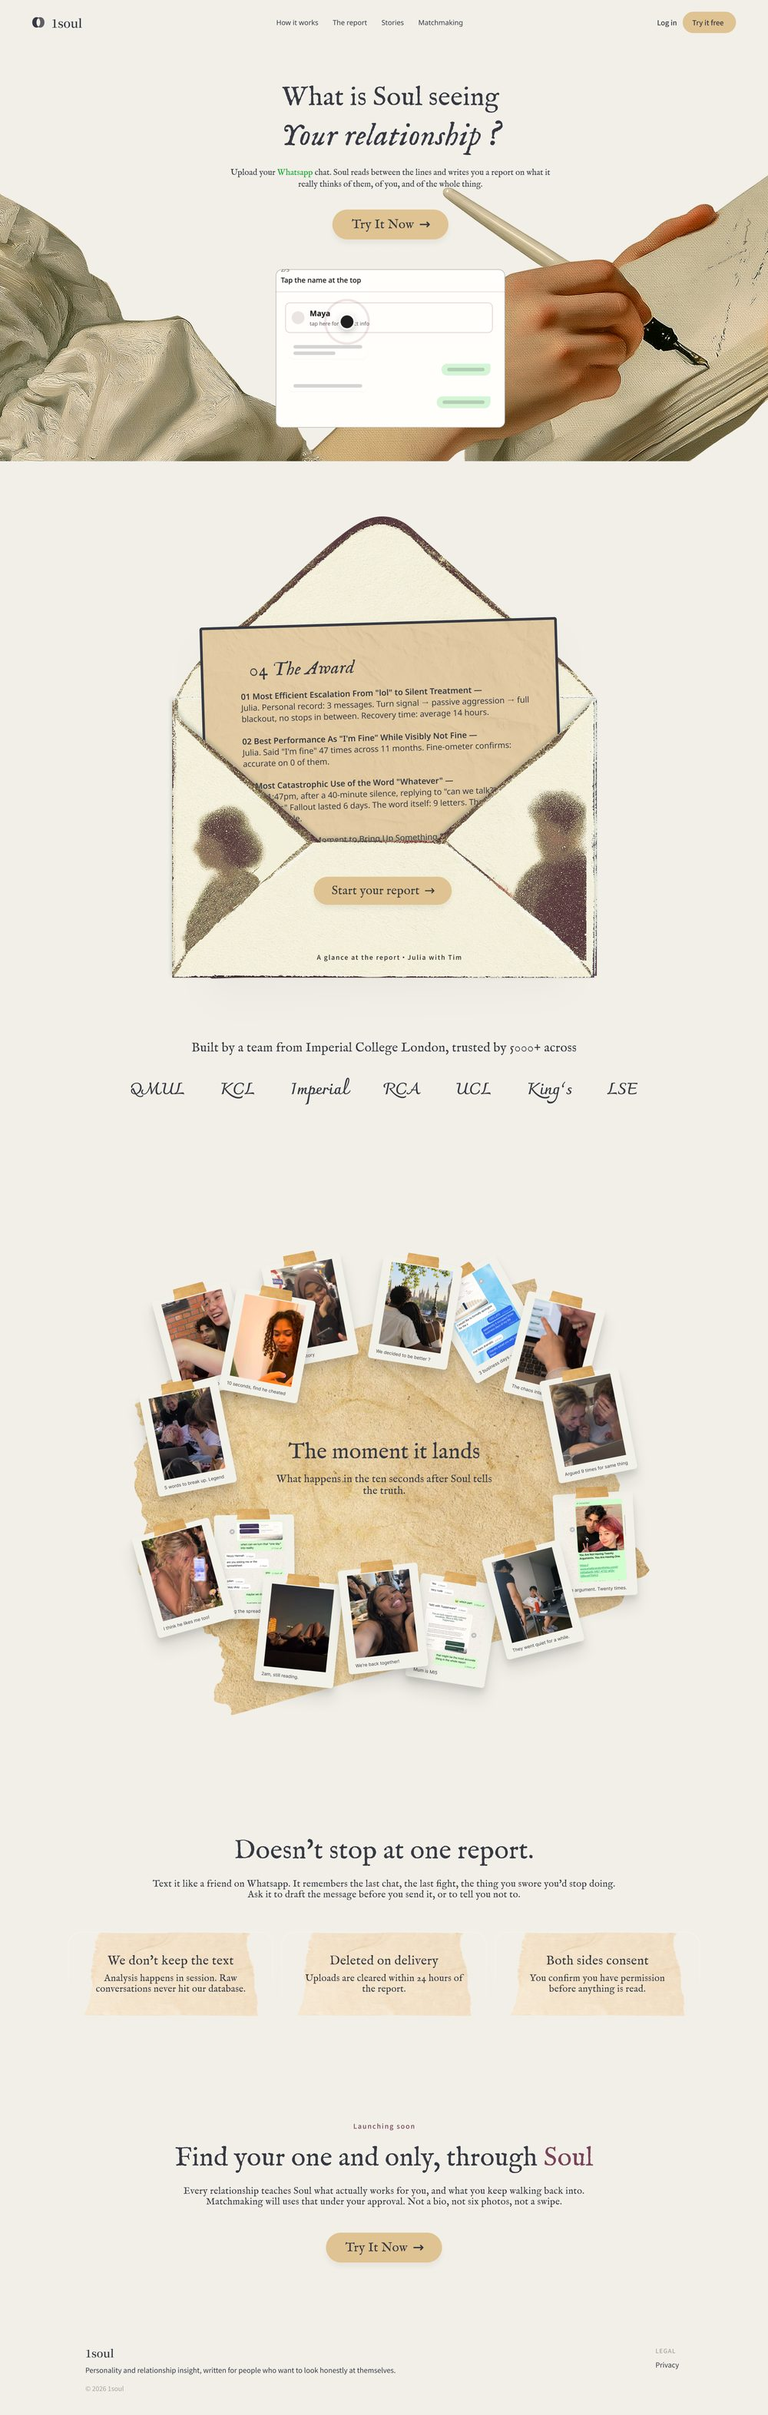
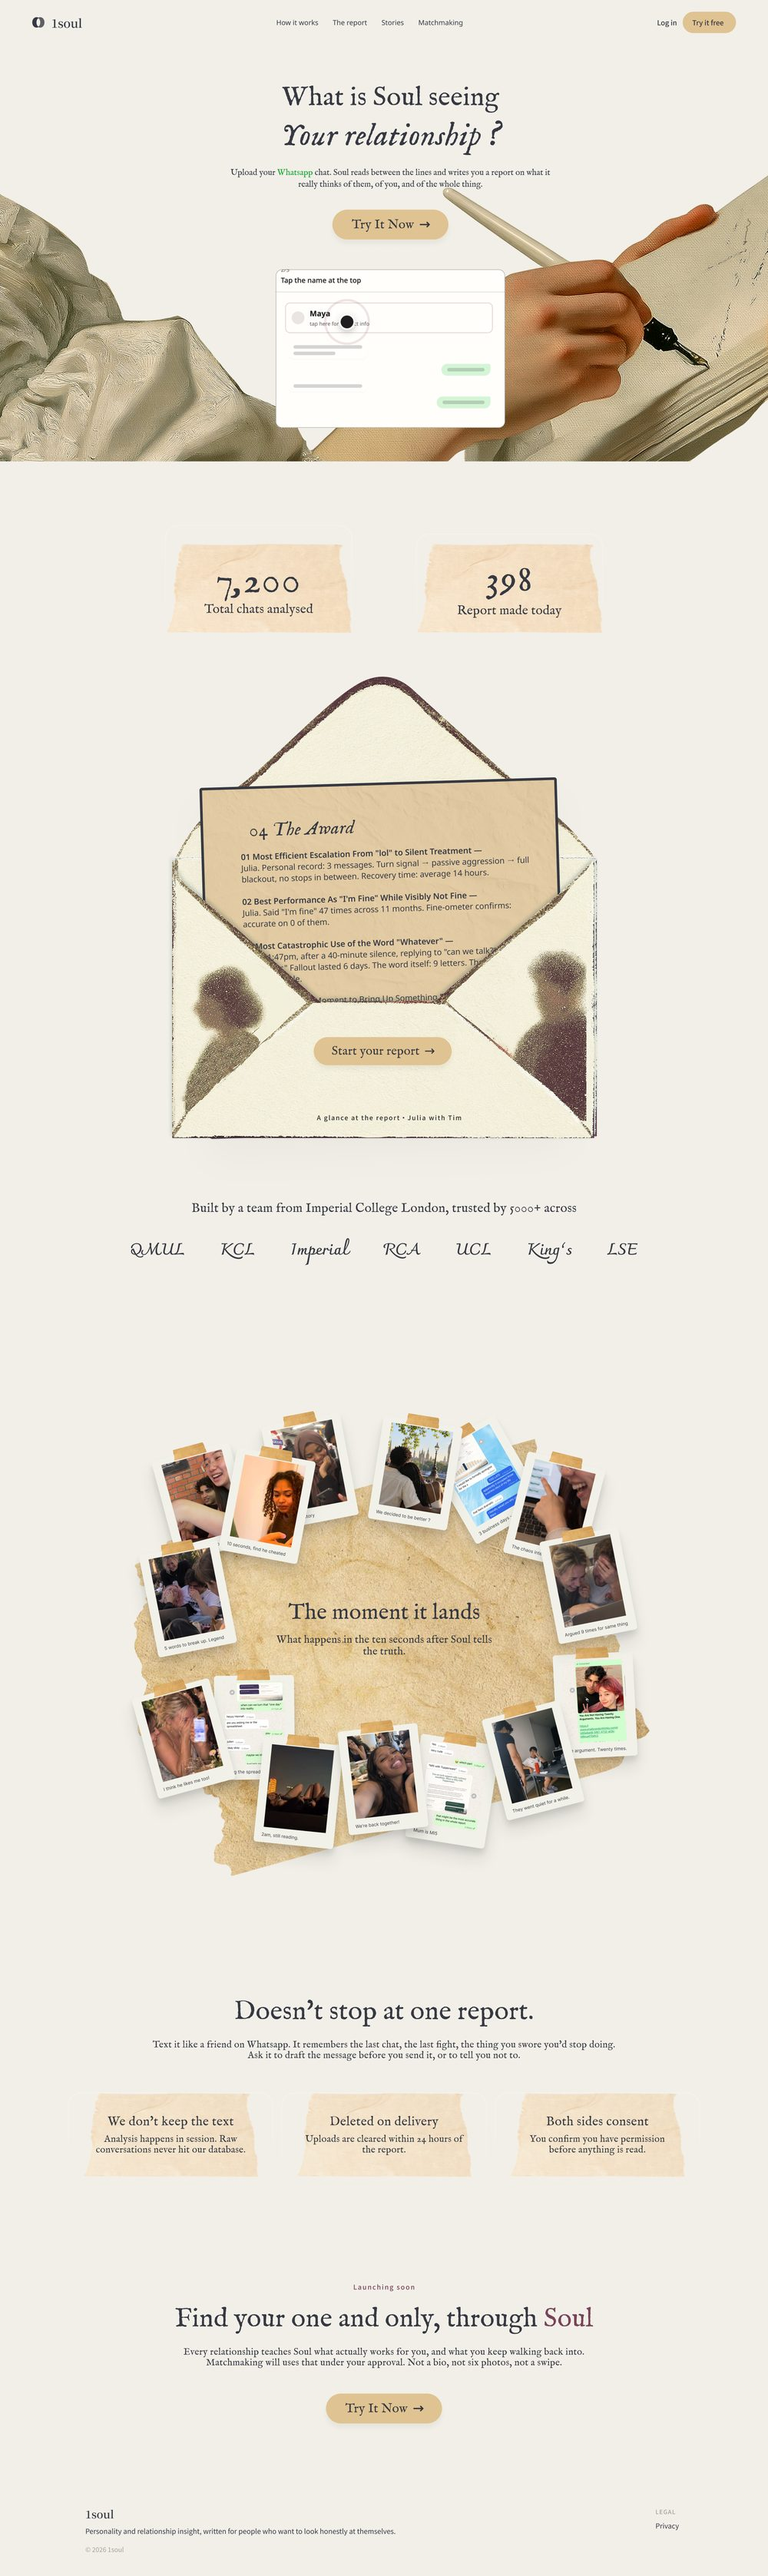
Restore the counters, open up round one's screens, and give round two the same (#22)
The screenshot of the current site is unretouched again, counters
included. The case study says "over 5,000 people use it now" and the
site's counter says "7,200 total chats analysed" — people, and the
conversations they handed over — so the two sit together.

Round one's screen-by-screen came out of its fold, and round two has one
of its own, seven screens deep: the question and the export card, the
live counters on torn tape, the envelope that opens before you sign up,
the handwritten universities, the Polaroid wall sorted by what the
relationship was, the part that keeps texting you back with its three
privacy cards, and the matchmaking that is honest about still waiting.

Rung three read like a hookup. It is "Bring them together in real life"
now, and both of them have to believe a 1Soul event or a meeting they
arrange themselves is somewhere to trust.

diff --git a/work/1soul.html b/work/1soul.html
@@ -52,7 +52,7 @@
   <div class="prose reveal">
 
     <div class="thesis">
-      <p>The product is a ladder with three rungs. Understand somebody. Find them a good match. Get the two of them into the same room.</p>
+      <p>The product is a ladder with three rungs. Understand somebody. Find them a good match. Bring the two of them together in real life.</p>
       <p>I have worked on it twice. Both times the job was the same. Work out which rung had broken, and rebuild that one.</p>
     </div>
 
@@ -65,7 +65,7 @@
     <p class="prose-lede">The short version. The first time, the top rung was broken: women were signing up and staying away from the events. I rebuilt the site and the mechanic around one audience, and female sign-ups went up 25%. The second time the first rung turned out to be too soft to stand on, so the CEO and I went back down to build it properly. The product now asks you for a real conversation and writes you back.</p>
 
     <h2>What 1Soul is</h2>
-    <p>1Soul is a relationship AI that lives in your WhatsApp. You talk to it the way you talk to everybody else, it learns who you are from that, and when it has read enough it puts you in front of somebody worth knowing. Romantic first, and friendship and work after that.</p>
+    <p>1Soul is a relationship AI that lives in your WhatsApp. You talk to it the way you talk to everybody else, it learns who you are from that, and when it has read enough it brings you and somebody worth knowing into the same evening. Romantic first, and friendship and work after that.</p>
     <p>Getting there takes three things, in this order, and each one asks the person for more than the one below it.</p>
 
     <div class="stage-map stage-map--illustrated">
@@ -81,8 +81,8 @@
       </figure>
       <figure class="stage">
         <img class="stage__img" src="../assets/images/1soul/couple-polaroid.jpg" alt="A Polaroid of a couple who met through 1Soul, with their own words written underneath it" loading="lazy">
-        <div class="stage__n"><span class="stage__i">Rung 3</span>Get the two of them in a room</div>
-        <div class="stage__believe"><span class="stage__k">She has to believe</span><p>Meeting a stranger in person is safe</p></div>
+        <div class="stage__n"><span class="stage__i">Rung 3</span>Bring them together in real life</div>
+        <div class="stage__believe"><span class="stage__k">They both have to believe</span><p>A 1Soul event, or a meeting we arrange ourselves, is somewhere I can trust</p></div>
       </figure>
     </div>
 
@@ -95,9 +95,9 @@
     <ul class="rungmark" role="list">
       <li class="rungmark__item"><span class="rungmark__n">Rung 1</span>Understand somebody</li>
       <li class="rungmark__item is-on"><span class="rungmark__n">Rung 2</span>Find them a match</li>
-      <li class="rungmark__item is-on"><span class="rungmark__n">Rung 3</span>Get them in a room</li>
+      <li class="rungmark__item is-on"><span class="rungmark__n">Rung 3</span>Bring them together in real life</li>
     </ul>
-    <p class="figure-note">Round one is about the handover from rung two to rung three. People were being matched and then staying home.</p>
+    <p class="figure-note">Round one is about the handover from rung two to rung three. People were being matched, and then staying home.</p>
 
     <p>At the early events the split ran nine men to every woman. The sign-ups existed and the room stayed empty, and the site was the reason. Research called it a heavy magic book. It promised that an AI would date on your behalf, which is the one claim a woman deciding whether to walk into a room of strangers will not take on trust.</p>
     <figure class="figure figure--narrow">
@@ -272,24 +272,22 @@
 
     <p class="figure-note">What Cupid says before it asks her for anything.</p>
 
-    <details class="prose-more">
-      <summary class="prose-more__summary">The screens I drew for it, and why they are like that <span class="prose-more__arrow" aria-hidden="true">&#8595;</span></summary>
+    <h4 class="screens-lede">The screens I drew for it, and why they are like that</h4>
 
-      <div class="screens">
-        <figure class="screen">
-          <div class="longshot longshot--tall" tabindex="0" role="group" aria-label="Screen from the first rebuild, scrollable"><img src="../assets/images/1soul/v1-flow.jpg" alt="The rebuilt site's flow section, headed 'Your relationships in 1 Whatsapp chat', with five stacked cards: introduce yourself, Cupid refers someone, you look then decide, Cupid is growing with you, and match" loading="lazy"></div>
-          <figcaption><b>I drew the four steps on the page.</b> People kept asking what Cupid actually does, and the old site had never said. Each card names one thing it does and one thing she keeps. "You look, then decide" is doing the most work of the five.</figcaption>
-        </figure>
-        <figure class="screen">
-          <div class="longshot longshot--tall" tabindex="0" role="group" aria-label="Screen from the first rebuild, scrollable"><img src="../assets/images/1soul/v1-clue.jpg" alt="The section headed 'For her eyes only, she gets a clue first', showing a WhatsApp conversation where Cupid sends one hint about a match and she replies" loading="lazy"></div>
-          <figcaption><b>The clue became something you could read before you ever opened WhatsApp.</b> "You get a clue first" is a sentence nobody believes on its own, so the section is the actual message she would receive. The line under it reads YOU DECIDE WHAT YOU GONNA DO, ALWAYS.</figcaption>
-        </figure>
-        <figure class="screen">
-          <div class="longshot longshot--tall" tabindex="0" role="group" aria-label="Screen from the first rebuild, scrollable"><img src="../assets/images/1soul/v1-event.jpg" alt="The Secret Match section: four steps from register to discover on arrival, and a form to reserve a spot at a London mixer with a choice of events" loading="lazy"></div>
-          <figcaption><b>The room got a booking flow of its own.</b> She picks which evening she wants, a matcha café or a pickleball social, and gives a number. The events are named and dated because a woman deciding whether to walk into a room wants to know what the room is.</figcaption>
-        </figure>
-      </div>
-    </details>
+    <div class="screens">
+      <figure class="screen">
+        <div class="longshot longshot--tall" tabindex="0" role="group" aria-label="Screen from the first rebuild, scrollable"><img src="../assets/images/1soul/v1-flow.jpg" alt="The rebuilt site's flow section, headed 'Your relationships in 1 Whatsapp chat', with five stacked cards: introduce yourself, Cupid refers someone, you look then decide, Cupid is growing with you, and match" loading="lazy"></div>
+        <figcaption><b>I drew the four steps on the page.</b> People kept asking what Cupid actually does, and the old site had never said. Each card names one thing it does and one thing she keeps. "You look, then decide" is doing the most work of the five.</figcaption>
+      </figure>
+      <figure class="screen">
+        <div class="longshot longshot--tall" tabindex="0" role="group" aria-label="Screen from the first rebuild, scrollable"><img src="../assets/images/1soul/v1-clue.jpg" alt="The section headed 'For her eyes only, she gets a clue first', showing a WhatsApp conversation where Cupid sends one hint about a match and she replies" loading="lazy"></div>
+        <figcaption><b>The clue became something you could read before you ever opened WhatsApp.</b> "You get a clue first" is a sentence nobody believes on its own, so the section is the actual message she would receive. The line under it reads YOU DECIDE WHAT YOU GONNA DO, ALWAYS.</figcaption>
+      </figure>
+      <figure class="screen">
+        <div class="longshot longshot--tall" tabindex="0" role="group" aria-label="Screen from the first rebuild, scrollable"><img src="../assets/images/1soul/v1-event.jpg" alt="The Secret Match section: four steps from register to discover on arrival, and a form to reserve a spot at a London mixer with a choice of events" loading="lazy"></div>
+        <figcaption><b>The room got a booking flow of its own.</b> She picks which evening she wants, a matcha café or a pickleball social, and gives a number. The events are named and dated because a woman deciding whether to walk into a room wants to know what the room is.</figcaption>
+      </figure>
+    </div>
 
     <details class="prose-more">
       <summary class="prose-more__summary">How the mechanic works, step by step <span class="prose-more__arrow" aria-hidden="true">&#8595;</span></summary>
@@ -489,7 +487,7 @@
     <ul class="rungmark" role="list">
       <li class="rungmark__item is-on"><span class="rungmark__n">Rung 1</span>Understand somebody</li>
       <li class="rungmark__item"><span class="rungmark__n">Rung 2</span>Find them a match</li>
-      <li class="rungmark__item"><span class="rungmark__n">Rung 3</span>Get them in a room</li>
+      <li class="rungmark__item"><span class="rungmark__n">Rung 3</span>Bring them together in real life</li>
     </ul>
     <p class="figure-note">Round two is rung one. Understanding somebody deeply enough to be worth trusting, and building the trust that makes it possible.</p>
 
@@ -512,7 +510,7 @@
       </div>
       <div class="chain__arrow" aria-hidden="true">&rarr;</div>
       <div class="chain__step" role="listitem">
-        <span class="chain__n">Rung 3</span><p>Get them in a room</p>
+        <span class="chain__n">Rung 3</span><p>Bring them together in real life</p>
         <span class="chain__served">The first rebuild served this one</span>
       </div>
     </div>
@@ -680,6 +678,40 @@
         <li><b>The wall is sorted by family, friendship, relationship and situationship.</b> More people find themselves in it, which lowers the bar to uploading.</li>
       </ul>
     </details>
+
+    <h3>The current site, screen by screen</h3>
+    <p>Every part of it is answering something the research or the data turned up, so here is each one and the reason it looks like that.</p>
+
+    <div class="screens">
+      <figure class="screen">
+        <img src="../assets/images/1soul/upload-chat.jpg" alt="The hero of the current site: a question as the headline, and a card showing how to export a WhatsApp conversation" loading="lazy">
+        <figcaption><b>The first screen asks a question and then shows you how to answer it.</b> The headline is what Soul is seeing in your relationship, and the card underneath walks through exporting the chat. Somebody who is curious can get from the question to the upload without leaving the screen.</figcaption>
+      </figure>
+      <figure class="screen">
+        <img src="../assets/images/1soul/v2-counters.jpg" alt="Two counters on torn paper tape: total chats analysed, and reports made today" loading="lazy">
+        <figcaption><b>The counters run live, on torn paper tape.</b> &ldquo;Plenty of people do this&rdquo; is something a visitor can watch rather than take on faith. The tape keeps the number inside the world of the letter, away from looking like a dashboard.</figcaption>
+      </figure>
+      <figure class="screen">
+        <img src="../assets/images/1soul/envelope-report.jpg" alt="An envelope on the page with the report sliding out of it" loading="lazy">
+        <figcaption><b>The envelope opens on the page.</b> You see what the report actually looks like before you hand anything over. Curiosity is the way in, so the product shows itself before it asks.</figcaption>
+      </figure>
+      <figure class="screen">
+        <img src="../assets/images/1soul/v2-universities.jpg" alt="A row of London university names set in a handwritten face, under a line about who built it" loading="lazy">
+        <figcaption><b>The universities are handwritten.</b> Institutional backing is the most checkable proof we have, and setting it in a hand keeps it personal. It reads as people you could know, rather than logos on a wall.</figcaption>
+      </figure>
+      <figure class="screen">
+        <img src="../assets/images/1soul/polaroid-wall.jpg" alt="The wall of Polaroid photographs, taped down on torn paper" loading="lazy">
+        <figcaption><b>The wall is taped down, and sorted by what the relationship was.</b> Family, friendship, relationship, situationship. More people find themselves somewhere in it, and tape reads as something a person put there rather than something a marketing team bought.</figcaption>
+      </figure>
+      <figure class="screen">
+        <img src="../assets/images/1soul/v2-argue.jpg" alt="The section saying it does not stop at one report, with three paper cards carrying the privacy promises" loading="lazy">
+        <figcaption><b>It does not stop at one report, and it says what it keeps.</b> You text Soul like a friend and it holds the last conversation, the last argument and the thing you keep walking back into. It will draft the message before you send it, or tell you not to. The three privacy promises sit on paper cards in the same language as everything else, because a promise that lives inside the product is more believable than one in the small print.</figcaption>
+      </figure>
+      <figure class="screen">
+        <img src="../assets/images/1soul/v2-closing.jpg" alt="The closing section: find your one and only, through Soul, with matchmaking marked as launching soon" loading="lazy">
+        <figcaption><b>Matchmaking comes last, and it is honest about waiting.</b> It is marked as launching soon, and it says what it will use: everything the reports taught Soul about what works for you, under your approval. Not a bio, not six photos, not a swipe.</figcaption>
+      </figure>
+    </div>
 
     <p>The whole of it, as it shipped.</p>
 

diff --git a/assets/css/site.css b/assets/css/site.css
@@ -2139,6 +2139,13 @@ a,button,summary,label,[role="button"],.star-link:not(.star-link--disabled),
   border-radius:var(--radius-md);border:1px solid var(--border-hairline);
 }
 
+/* an unfolded screens block gets a quiet lead-in instead of a summary row */
+.prose h4.screens-lede{
+  font-family:var(--font-display);font-size:var(--text-body-lg);
+  font-weight:var(--fw-semibold);letter-spacing:var(--ls-snug);
+  color:var(--text-primary);margin:var(--space-7) 0 var(--space-4);
+}
+
 /* screen, then the reason for it. Wide shots, so one to a row. */
 .screens{display:grid;gap:var(--space-7);margin:var(--space-5) 0 0;}
 .screen{margin:0;}
